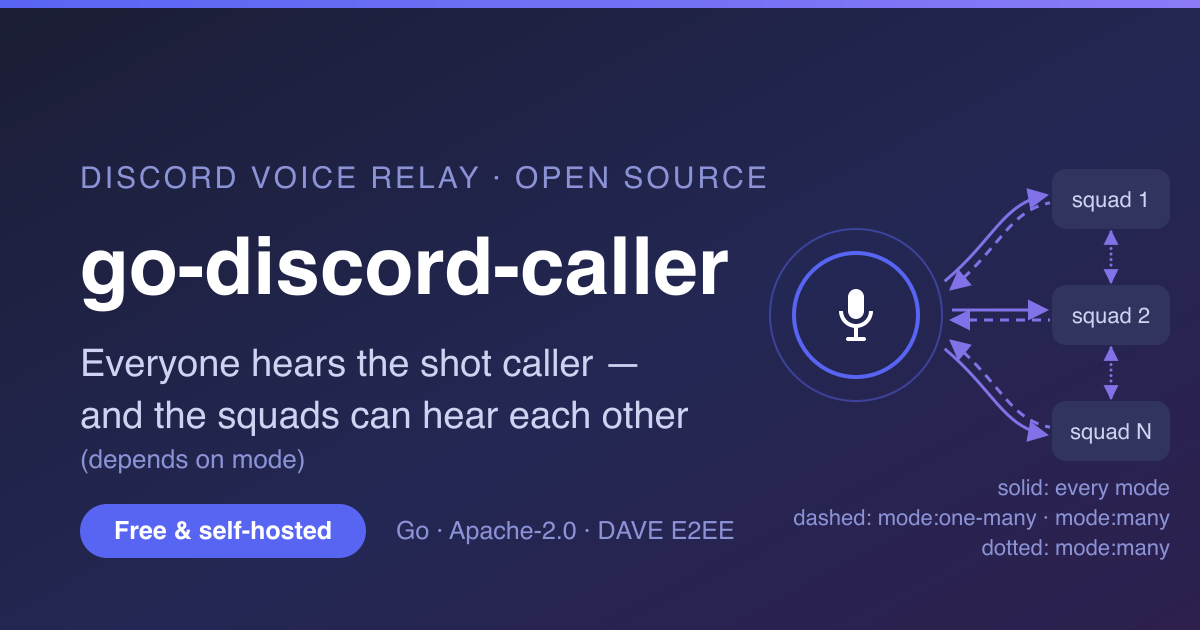
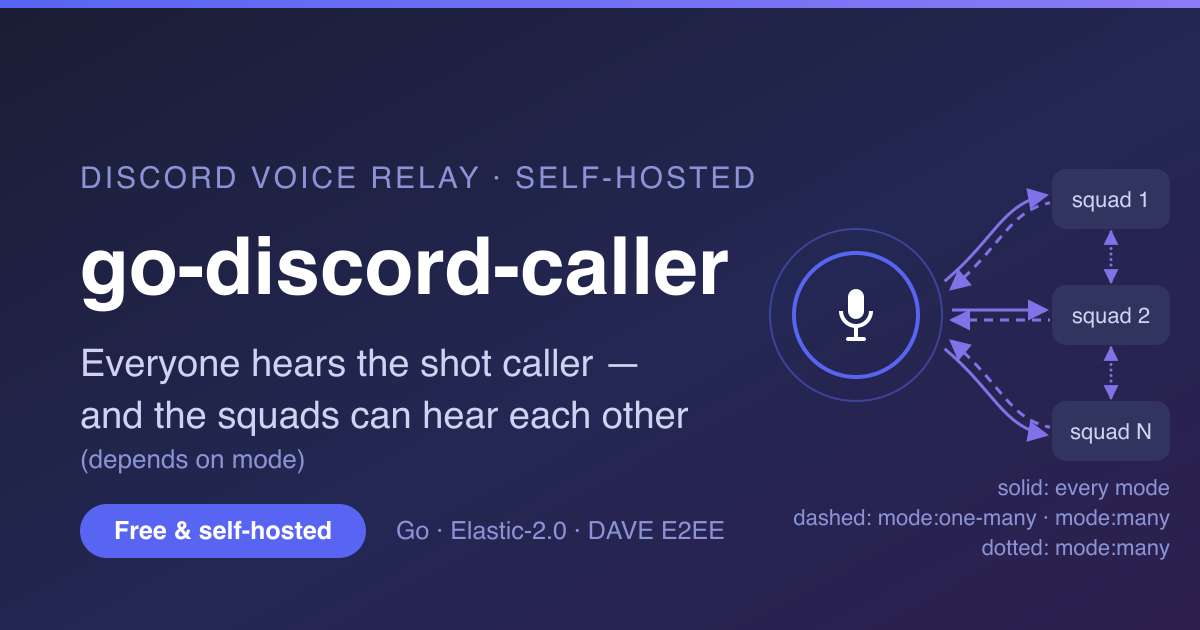
chore(license): switch to Elastic License 2.0 from 0.13.0 (#114)

Changed region(s): [[0.37, 0.8143, 0.6167, 0.8746], [0.4317, 0.2413, 0.6475, 0.3016]]

diff --git a/misc/overrides/main.html b/misc/overrides/main.html
@@ -38,7 +38,7 @@
     "operatingSystem": "Docker, Linux",
     "description": "{{ config.site_description | trim }}",
     "url": "{{ config.site_url }}",
-    "license": "https://www.apache.org/licenses/LICENSE-2.0",
+    "license": "https://www.elastic.co/licensing/elastic-license",
     "isAccessibleForFree": true,
     "offers": {
       "@type": "Offer",

diff --git a/misc/website/free-shot-caller-bot.md b/misc/website/free-shot-caller-bot.md
@@ -2,29 +2,29 @@
 title: "Free Shot Caller Bot vs Paid Shot-Caller Services"
 description: >-
   Why pay a monthly subscription for a Discord shot caller bot? go-discord-caller
-  is a free, open-source, self-hosted alternative to paid shot-caller services —
+  is a free, source-available, self-hosted alternative to paid shot-caller services —
   unlimited servers and speakers, full conference mode, and DAVE end-to-end
   encryption, with no plan tiers.
 keywords: >-
-  free shot caller bot, open source shot caller bot, self-hosted shot caller bot,
-  paid shot caller alternative, discord shot caller bot, open source discord voice relay,
+  free shot caller bot, source-available shot caller bot, self-hosted shot caller bot,
+  paid shot caller alternative, discord shot caller bot, self-hosted discord voice relay,
   discord voice coordination bot, free discord voice relay
 ---
 
 # A Free Shot-Caller Bot vs Paid Shot-Caller Services
 
-Most Discord shot-caller bots are paid, hosted services — a "speak once, reach every squad" workflow gated behind a monthly subscription, with tiers that cap how many servers and parties you can use. **go-discord-caller** gives you the same workflow for free: it's open source and self-hosted, so you run it with your own Discord bot tokens with no plan tiers, no party limits, and end-to-end encrypted audio.
+Most Discord shot-caller bots are paid, hosted services — a "speak once, reach every squad" workflow gated behind a monthly subscription, with tiers that cap how many servers and parties you can use. **go-discord-caller** gives you the same workflow for free: it's source-available and self-hosted, so you run it with your own Discord bot tokens with no plan tiers, no party limits, and end-to-end encrypted audio.
 
 [:simple-discord: Try the hosted bot (demo)](https://discord.com/oauth2/authorize?client_id=1484911601210495038&scope=bot&permissions=351843765984576){ .md-button .md-button--primary }
 
-*The hosted demo is free to use today and intended for evaluation; see the [terms](terms.md). The software itself is free under Apache-2.0 — self-hosting has no fee, now or later.*
+*The hosted demo is free to use today and intended for evaluation; see the [terms](terms.md). The software itself is free to self-host under the Elastic License 2.0 — self-hosting has no fee, now or later.*
 [:material-github: Self-host it (GitHub)](https://github.com/sealbro/go-discord-caller){ .md-button }
 
 ## Comparison
 
 | Feature | go-discord-caller | Typical paid shot-caller service |
 |---|---|---|
-| **Price** | ✅ Free & open source (Apache-2.0) | 💸 Monthly subscription (tiered) |
+| **Price** | ✅ Free to self-host (Elastic License 2.0) | 💸 Monthly subscription (tiered) |
 | **Servers** | ✅ Unlimited (inter-guild relay) | ⚠ Usually capped by plan |
 | **Speaker channels / parties** | ✅ Unlimited (one speaker bot per channel) | ⚠ Usually capped by plan |
 | **Hosting** | ✅ Self-hosted — you own the data | ☁ Managed SaaS |

diff --git a/misc/website/index.md b/misc/website/index.md
@@ -1,10 +1,10 @@
 ---
-title: "Free Discord Shot Caller & Voice Relay Bot (Open Source)"
+title: "Free Discord Shot Caller & Voice Relay Bot (Self-Hosted)"
 description: >-
   Self-hosted Discord shot caller and voice relay bot in Go. One shot caller
   speaks and their audio is broadcast live to multiple speaker bots across one or
   many Discord servers, with mix-minus mixing and DAVE end-to-end encryption.
-  Free and open source.
+  Free to self-host.
 ---
 
 # Free, Self-Hosted Discord Shot Caller & Voice Relay Bot
@@ -14,13 +14,13 @@ description: >-
 [:simple-discord: Try the hosted bot (demo)](https://discord.com/discovery/applications/1484911601210495038){ .md-button .md-button--primary }
 [:material-github: View on GitHub](https://github.com/sealbro/go-discord-caller){ .md-button }
 
-*The hosted demo is for evaluation and has a limited number of speakers. It is free to use today, but it runs at the maintainer's expense — limits or paid plans may be introduced to fund more capacity ([terms](terms.md)). Self-hosting is free under Apache-2.0, with unlimited speakers and servers.*
+*The hosted demo is for evaluation and has a limited number of speakers. It is free to use today, but it runs at the maintainer's expense — limits or paid plans may be introduced to fund more capacity ([terms](terms.md)). Self-hosting is free under the Elastic License 2.0, with unlimited speakers and servers.*
 
 ## Why use it
 
 [Free vs paid shot-caller bots →](free-shot-caller-bot.md){ .md-button }
 
-- **Free & open source (Apache-2.0)** — no monthly fee, no trial wall.
+- **Free to self-host (Elastic License 2.0)** — no monthly fee, no trial wall.
 - **Unlimited servers & speakers** — inter-guild relay across any number of Discord servers; one speaker bot per voice channel, as many as you want.
 - **Three caller modes** — one-caller broadcast, hub-and-spoke, or full conference with mix-minus echo prevention.
 - **End-to-end encrypted audio** — uses Discord's DAVE E2EE voice protocol via [godave / libdave](https://github.com/disgoorg/godave).

diff --git a/misc/website/terms.md b/misc/website/terms.md
@@ -8,12 +8,13 @@ description: >-
 
 # Terms of Service
 
-**Last updated: 1 October 2026**
+**Last updated: 1 November 2026**
 
 These terms apply to the **hosted demo instance** of go-discord-caller — the bot
 you invite from this site. The source code is separate: it is licensed under the
-[Apache License 2.0](https://github.com/sealbro/go-discord-caller/blob/main/LICENSE),
-and running your own instance is governed by that licence, not by this page.
+[Elastic License 2.0](https://github.com/sealbro/go-discord-caller/blob/main/LICENSE)
+since version 0.13.0 (earlier versions remain under Apache-2.0), and running your
+own instance is governed by that licence, not by this page.
 
 By inviting the bot to a Discord server, you agree to these terms on behalf of
 that server.
@@ -48,10 +49,12 @@ reasonable notice through this site and the project's repository — but no noti
 period is guaranteed.
 
 !!! note "This does not affect the software"
-    The source code is and remains free and open source under the Apache License
-    2.0. That licence cannot be revoked for a version already released, so
-    self-hosting stays free of charge regardless of what happens to the hosted
-    instance. Nothing in this section limits your rights under that licence.
+    Since version 0.13.0 the source code is licensed under the Elastic License
+    2.0: you may use, modify and self-host it free of charge, but not offer it
+    to others as a hosted service. Versions 0.12.3 and earlier remain under the
+    Apache License 2.0, which cannot be revoked for a version already released.
+    Self-hosting stays free of charge regardless of what happens to the hosted
+    instance. Nothing in this section limits your rights under either licence.
 
 ## Who may configure it
 

diff --git a/CONTRIBUTING.md b/CONTRIBUTING.md
@@ -12,6 +12,11 @@ welcome.
 - **Want to translate the bot?** Skip to [Translations](#translations) — no Go
   toolchain, no libdave, no Docker needed.
 
+> **By contributing, you agree** that the maintainer may use, change and
+> relicense your contribution under any terms, including open-source and
+> commercial licences. You keep your copyright. Details:
+> [Licensing your contribution](#licensing-your-contribution).
+
 ## Getting the code to build
 
 This is the part that trips people up, so read it before fighting your
@@ -115,6 +120,24 @@ Partial translations are fine — missing keys fall back to English.
 - Say how you tested it, and which suites you could not run.
 
 Releases and tags are the maintainer's job — don't bump versions in a PR.
+
+## Licensing your contribution
+
+The project is licensed under the [Elastic License 2.0](LICENSE) and is also
+offered under separate commercial licences, and its licence may change in the
+future — including back to an open-source licence. To keep that possible, by
+submitting a contribution you:
+
+- license it under the project's current licence, **and**
+- grant the maintainer, sealbro (Alex S.), a perpetual, worldwide,
+  non-exclusive, royalty-free, irrevocable licence to use, modify and
+  distribute it, and to relicense or sublicense it under any terms, including
+  open-source and commercial licences;
+- confirm the contribution is your own work, or that you have the right to
+  submit it under these terms.
+
+You keep the copyright to your contribution. If you do not agree, please say so
+in the PR before it is merged.
 
 ## Code style
 

diff --git a/README.md b/README.md
@@ -289,3 +289,14 @@ bugs go through the [issue templates](https://github.com/sealbro/go-discord-call
 ## Security
 
 Found a vulnerability? Report it privately — see [SECURITY.md](SECURITY.md). Please don't open a public issue for it.
+
+## License
+
+Since version 0.13.0, go-discord-caller is licensed under the [Elastic License 2.0](LICENSE):
+you may use, modify and self-host it for free, but you may not provide it to others as a
+hosted or managed service. Versions 0.12.3 and earlier remain available under Apache-2.0.
+
+Running your own instance for your own community — your server, your guild, or an
+alliance of guilds you play with — is allowed. What needs a commercial licence is
+offering it as a service to the public or to customers. For a commercial licence,
+[ask the maintainer](https://github.com/sealbro/go-discord-caller/discussions).

diff --git a/CHANGELOG.md b/CHANGELOG.md
@@ -11,6 +11,7 @@ and this project adheres to [Semantic Versioning](https://semver.org/spec/v2.0.0
 - **Third-party licences in the Docker image**: the image now ships the licence texts of every bundled library under `/licenses`.
 
 ### Changed
+- **License**: changed from Apache-2.0 to the Elastic License 2.0 starting with 0.13.0 — free to use, modify and self-host, but not to offer as a hosted service. Releases up to and including 0.12.3 remain under Apache-2.0.
 - **Turkish translation**: rewritten from scratch.
 
 ## [0.12.3] - 2026-10-27

diff --git a/.github/pull_request_template.md b/.github/pull_request_template.md
@@ -8,3 +8,4 @@
 - [ ] For a bug fix: a test that fails without the change — and I watched it fail
 - [ ] `CHANGELOG.md` entry under `## [Unreleased]`, if a user or operator would notice this
 - [ ] Integration tests run, or noted here that I could not run them
+- [ ] I agree to the terms in [Licensing your contribution](https://github.com/sealbro/go-discord-caller/blob/main/CONTRIBUTING.md#licensing-your-contribution)
